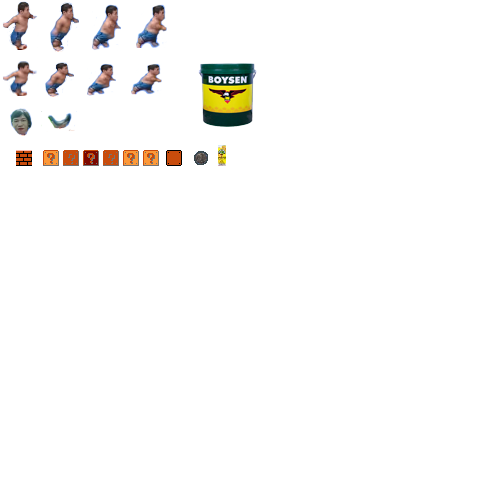
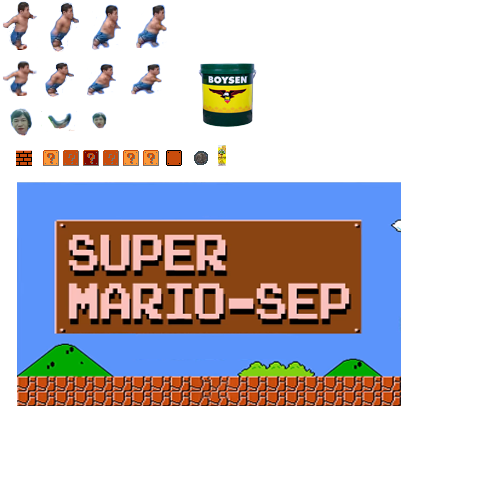
added startmenu mar 30 2026

diff --git a/src/scenes/MainMenu.js b/src/scenes/MainMenu.js
@@ -1,202 +1,90 @@
-
-import { Control } from '../constants/control.js';
-
-import { playSound, stopSound } from '../soundHandler.js';
+import * as control from '../inputHandler.js';
+import { playSound } from '../soundHandler.js';
 import { gameState } from '../state/gameState.js';
-import { CharacterSelect } from './CharacterSelect.js';
-import * as control from '../inputHandler.js'; 
-import { MainMenuIntroBG, MainMenuScreen } from '../entities/MainMenuScreen.js';
-import { FadeEffect } from './utils/FadeEffect.js';
-import { Intro } from './Intro.js';
-import { BattleScene } from './Battlescene.js';
-import { OptionsMenu } from './OptionsMenu.js';
-
-
+import { MarioScene } from './MarioScene.js';
 
 export class MainMenu {
-    entities = [];
-
     constructor(game) {
-        gameState.practiceMode.enabled = false;
-        this.game = game; // store reference to main game
-        this.image = document.querySelector('img[alt="misc"]');
-        this.flashAlpha = 0;
-        this.screenTimer = 0;
-        this.screenTimerMax = 25;
-        this.soundSelect = document.querySelector('audio#sound-select');
-        this.soundChoose = document.querySelector('audio#sound-choose');
-        this.nextScene = false;
-        this.musicIntro = document.querySelector('audio#music-intro');
-        this.soundStart = document.querySelector('audio#game-start');
+        this.game = game;
+        this.image = document.querySelector('img[alt="mario"]');
+        this.stageMusic = document.querySelector('audio#music-ground');
+        this.soundPowerDown = document.querySelector('audio#sound-powerDown');
 
-        this.fade = new FadeEffect({ color: 'black', speed: 0.05 });
+        this.frames = new Map([
+            ['menu', [17, 182, 384, 224]],
+            ['kapHead', [92, 112, 15, 17]],
+            ['coin',[194, 150, 14, 15]],
+        ]);
 
-        this.introScreen = new MainMenuScreen(this.game, this.fighters);
-        this.entities = [
-            new MainMenuIntroBG(),
-            this.introScreen,
+        this.selection = 0; // 0 for Player 1, 1 for Player 2
+        this.kapHeadPos = { x: 50, y: 150 }; // Position for kapHead pointer
+        this.options = [
+            { label: '1 Player Game', x: 120, y: 165 },
+            { label: '2 Player Game', x: 120, y: 185 }
         ];
     }
 
+    drawFrame(context, frameKey, x, y, direction = 1, scale = 1, alpha = 1) {
+        const [sx, sy, sw, sh] = this.frames.get(frameKey);
+        context.save();
+        context.globalAlpha = alpha;
+        context.translate(x, y);
+        context.scale(direction * scale, scale);
+        context.drawImage(this.image, sx, sy, sw, sh, 0, 0, sw, sh);
+        context.restore();
+    }
 
-    updateEntities(time, context) {
-        for (const entity of this.entities) {
-            entity.update(time, context, this.camera);
+    update(time) {
+        // Handle input for selection
+        if (control.isUp(0,1) && this.selection > 0) {
+            this.selection--;
+        } else if (control.isDown(0,1) && this.selection < this.options.length - 1) {
+            this.selection++;
         }
-    }
 
-    handleFlash() {
-        this.fade.fadeIn(); 
-        
-    }
-    
-        handleInput(playerId) {
-    // Use a static map to track if START or SELECT were already pressed
-    if (!this.keyPressed) this.keyPressed = { start: false, select: false };
-
-    const startPressed = control.isControlPressed(playerId, Control.START);
-    const selectPressed = control.isControlPressed(playerId, Control.SELECT);
-            
-    if (startPressed && !this.keyPressed.start && gameState.buttonHold) {
-    this.keyPressed.start = true;
-    this.nextScene = true;
-        
-    gameState.gameStarted = true; 
-    playSound(this.soundSelect, 1);
-    stopSound(this.musicIntro);
-    
-    gameState.buttonHold = false;
-
-    if(!this.introScreen.vsMode){
-            if(this.introScreen.pointer.cursor === 0){
-                //if(this.fade.done) this.game.setScene(new Intro(this.game));
-                //this.handleFlash();
-                control.showNotice(`Story Mode not yet available.`);
-                 console.log("Start mode selected");
-            } else if (this.introScreen.pointer.cursor === 1){
-               //if(this.fade.done) this.game.setScene(new CharacterSelect(this.game));
-                 this.introScreen.pointer.y = 108;
-                 this.introScreen.pointer.x = 95;
-                 this.introScreen.pointer.cursor = 0;
-               this.introScreen.vsMode = true;
-                console.log("Vs mode selected");
-        } else if (this.introScreen.pointer.cursor === 2){
-          //  if(this.fade.done) this.game.setScene(new BattleScene(this.game));
-          this.handleFlash();
-                console.log("Practice mode selected");
-        } else if (this.introScreen.pointer.cursor === 3){
-            this.handleFlash();
-           if(this.fade.done) this.game.setScene(new OptionsMenu(this.game));
-                console.log("Options selected");
-    }
-} else {
-     if(this.introScreen.pointer.cursor === 0){
-            gameState.bot.player1 = false;
-            gameState.bot.player2 = false;
-                this.handleFlash();
-                 console.log("PVP Selected");
-            } else if (this.introScreen.pointer.cursor === 1){
-                 gameState.bot.player1 = false;
-            gameState.bot.player2 = true;
-               this.handleFlash();
-                console.log("P VS Cpu selected");
-        } else if (this.introScreen.pointer.cursor === 2){
-             gameState.bot.player1 = true;
-            gameState.bot.player2 = true;
-          this.handleFlash();
-                console.log("CPU vs CPU Selected");
-        } else if (this.introScreen.pointer.cursor === 3){
-            this.introScreen.vsMode = false;
-            this.introScreen.pointer.y = 108;
-            this.introScreen.pointer.x = 135;
-                 this.introScreen.pointer.cursor = 0;
-                console.log("Vs mode Back");
-    }
-}
-    
-}
-
-    
-    if (selectPressed && !this.keyPressed.select && gameState.buttonHold) {
-        this.keyPressed.select = true;
-        this.introScreen.pointer.y += 15;
-        this.introScreen.pointer.cursor += 1;
-        if(this.introScreen.pointer.y > 165){
-            this.introScreen.pointer.y = 108;
-            this.introScreen.pointer.cursor = 0;
+        if(control.isStart(0,1)) {
+            playSound(this.soundPowerDown, 1);
+            this.stageMusic.pause();
+            // Transition to character select or next scene
+            this.game.setScene(new MarioScene(this.game));
         }
-        gameState.credits += 1;
 
-        playSound(this.soundChoose, 1);
-        stopSound(this.musicIntro);
-        gameState.buttonHold = false;
+        // Update kapHead position based on selection
+        this.kapHeadPos.x = this.options[this.selection].x - 20; // Offset to the left of the text
+        this.kapHeadPos.y = this.options[this.selection].y - 13; // Align with text
     }
 
-    // --- Reset flags when buttons are released ---
-    if (!startPressed) this.keyPressed.start = false;
-    if (!selectPressed) this.keyPressed.select = false;
+     drawText(context){
+        context.font = "11px MarioFont";
+        context.fillStyle = "white";
+        context.fillText("Mario-Sep", 20, 20);
+        context.fillText("World", 224, 20);
+        context.fillText("Time", 304, 20);
+        context.fillText("x00", 158, 32);
+        this.drawFrame(context, 'coin', 140, 19);
+
+        context.fillText(String(gameState.mario.score).padStart(6, '0'), 20, 32);
+        context.fillText("1-1", 234, 32);
+        context.fillText(
+        String(gameState.mario.time).padStart(3, '0'),
+            314,
+            32
+        );
+    }
+
+    draw(context) {
+        // Draw the menu background
+        this.drawFrame(context, 'menu', 0, 0);
+
+        // Draw kapHead as pointer
+        this.drawFrame(context, 'kapHead', this.kapHeadPos.x, this.kapHeadPos.y);
+
+        // Draw menu options
+        context.font = "11px MarioFont";
+        context.fillStyle = "white";
+        this.options.forEach((option, index) => {
+            context.fillText(option.label, option.x, option.y);
+        });
+        this.drawText(context);
+    }
 }
-
-
-    update(time, context) {
-        this.fade.update(time);
-if(!this.introScreen.vsMode){
- if(this.introScreen.pointer.cursor === 0){
-                if(this.fade.done) this.game.setScene(new Intro(this.game));
-               
-                 
-            } else if (this.introScreen.pointer.cursor === 1){
-                
-        } else if (this.introScreen.pointer.cursor === 2){
-            gameState.practiceMode.enabled = true;
-            if(this.fade.done) this.game.setScene(new CharacterSelect(this.game));
-   
-        } else if (this.introScreen.pointer.cursor === 3){
-    
-           if(this.fade.done) this.game.setScene(new OptionsMenu(this.game));
-              
-    }
-} else {
-    if(this.introScreen.pointer.cursor === 0){
-            gameState.bot.player1 = false;
-            gameState.bot.player2 = false;
-                if(this.fade.done) this.game.setScene(new CharacterSelect(this.game));
-               gameState.practiceMode.enabled = false;
-                 console.log("PVP Selected");
-            } else if (this.introScreen.pointer.cursor === 1){
-                 gameState.bot.player1 = false;
-            gameState.bot.player2 = true;
-               if(this.fade.done) this.game.setScene(new CharacterSelect(this.game));
-               gameState.practiceMode.enabled = false;
-                console.log("P VS Cpu selected");
-        } else if (this.introScreen.pointer.cursor === 2){
-             gameState.bot.player1 = true;
-            gameState.bot.player2 = true;
-          if(this.fade.done) this.game.setScene(new CharacterSelect(this.game));
-          gameState.practiceMode.enabled = false;
-                console.log("CPU vs CPU Selected");
-        } 
-}
-         this.handleInput(0);
-        this.handleInput(1);
-        this.updateEntities(time, context);
-         if(this.flashScreen)this.startTimer();
-    }
-
-    drawEntities(context, time) {
-        for (const entity of this.entities) {
-            entity.draw(context, time, this.camera);
-        }
-    }
-
-   
-
-    draw(context, time) {
-        
-        this.drawEntities(context, time);
-        this.fade.draw(context, 400, 400);
-        
-    }
-    
-}
-

diff --git a/src/scenes/MarioScene.js b/src/scenes/MarioScene.js
@@ -109,7 +109,10 @@ export class MarioScene {
 
         ];
 
-        this.frames = new Map([['stage', [5, 0, 3584, 480]]]);
+        this.frames = new Map([
+            ['stage', [5, 0, 3584, 480]],
+            ['coin',[194, 150, 14, 15]],
+        ]);
     }
 
     drawFrame(context, frameKey, x, y, direction = 1, scale = 1, alpha = 1) {
@@ -286,6 +289,8 @@ if (this.timeCounter >= 50) {
         context.fillText("Mario-Sep", 20, 20);
         context.fillText("World", 224, 20);
         context.fillText("Time", 304, 20);
+        context.fillText("x00", 158, 32);
+        this.drawFrame(context, 'coin', 140, 19);
 
         context.fillText(String(gameState.mario.score).padStart(6, '0'), 20, 32);
         context.fillText("1-1", 234, 32);

diff --git a/src/game.js b/src/game.js
@@ -50,10 +50,10 @@ export class JSGame{
         //Mainscenes
 //this.scene = new Intro(this);
 //this.scene = new Disclaimer(this, selectedCharacters);
-//this.scene = new MainMenu(this);
+this.scene = new MainMenu(this);
 //this.scene = new OptionsMenu(this);
 //this.scene = new BattleScene(this, selectedCharacters);
-this.scene = new MarioScene(this)
+//this.scene = new MarioScene(this)
  //this.scene = new CharacterSelect(this);
 // this.scene = new PrePostMatch(this, selectedCharacters);
 

diff --git a/src/entities/mario/Mario.js b/src/entities/mario/Mario.js
@@ -134,7 +134,7 @@ export class Mario {
         this.currentAnimationKey = this.isBig ? 'idle' : 'idleSmall';
     }
     handleGrowInit() {
-        this.resetVelocities();
+        
         this.alpha = 0.5;
         this.currentAnimationKey = this.isBig ? 'growSmall' : 'growBig';
     }
